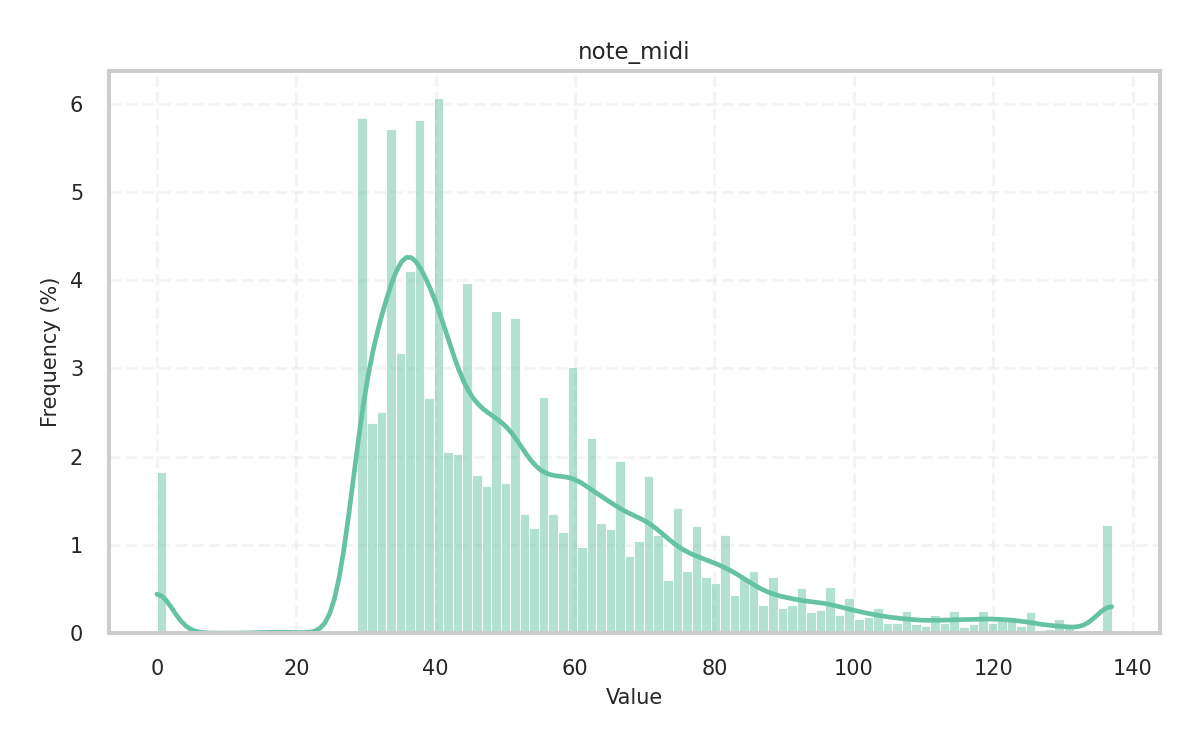
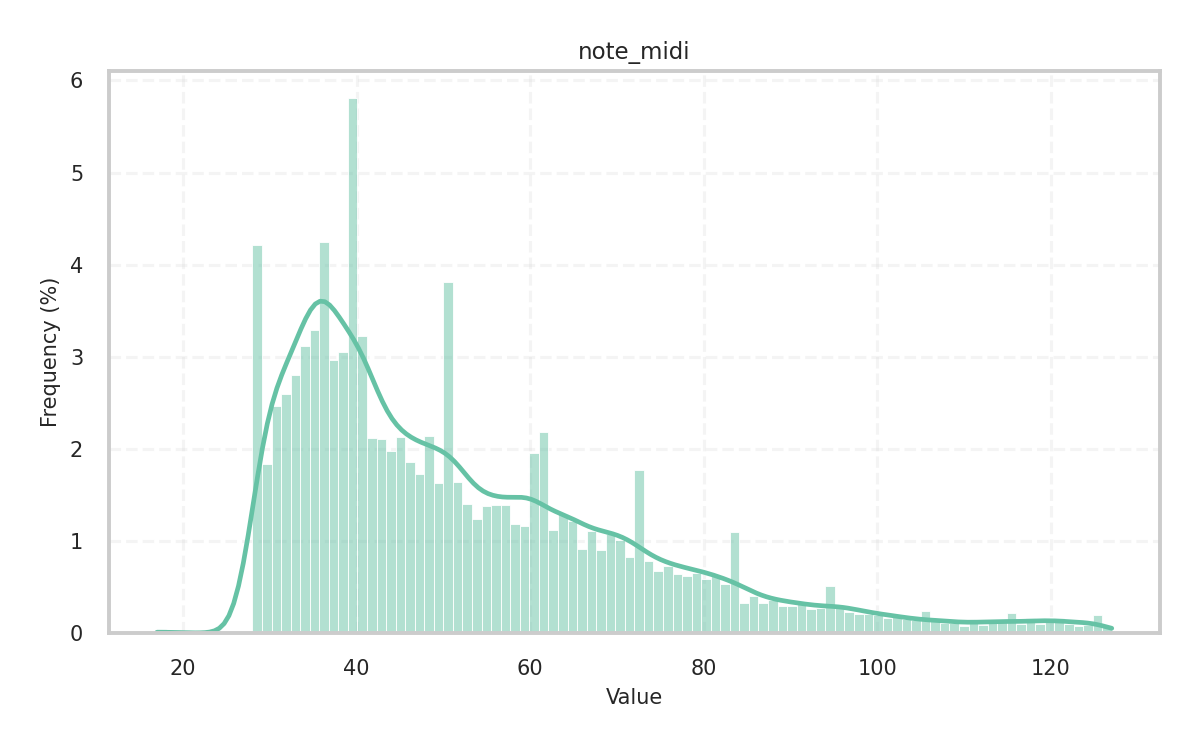
Filter out-of-range and raise categorical cap

diff --git a/_docs/api/generate_analysis_documentation/generate_plots.py b/_docs/api/generate_analysis_documentation/generate_plots.py
@@ -16,6 +16,15 @@ import numpy as np
 DATA_FOLDER = "audio_descriptors_values"  # json files for each descriptor extracted from DB
 OUT_FOLDER = "../source/_static/descriptors"
 
+# Interim: drop "not real value" outputs from the plots until fixed at extraction (True = remove).
+SENTINELS = {
+    # C-1 = "no note" (MIDI 0); G#9 and up are above the MIDI max (G9 = 127), artifacts
+    "note_name": lambda v: v in {"C-1", "G#9", "A9", "A#9", "B9", "C10", "C#10", "D10", "D#10", "E10", "F10"},
+    "note_midi": lambda v: v == 0 or v > 127,
+    "tonality_confidence": lambda v: v == -1,  # real range is 0-1
+    "pitch_confidence": lambda v: v > 1,  # real range is 0-1
+}
+
 def sort_key(s):
     ''' Sort string labels, and fix note order. '''
     m = re.match(r"([A-Za-z]+)(#?)(\d+)", s)
@@ -62,7 +71,7 @@ def plot_histogram(data, label, out_folder, remove_outliers=True):
         if len_vals > 20: 
             plt.figure(figsize=(15,5))
             plt.xticks(rotation=60) 
-        if len_vals > 100: 
+        if len_vals > 127: 
             # Keep only the 20 most frequent categories while preserving counts.
             top_labels = {label for label, _ in Counter(data).most_common(20)}
             data = [value for value in data if value in top_labels]
@@ -135,6 +144,8 @@ if __name__ == "__main__":
         with open(json_path, "r") as f:
             values = json.load(f)
         values = [v for v in values if v is not None]
+        if descriptor_name in SENTINELS:
+            values = [v for v in values if not SENTINELS[descriptor_name](v)]
         print(f"Processing {descriptor_name} ..")
 
         if not values:
